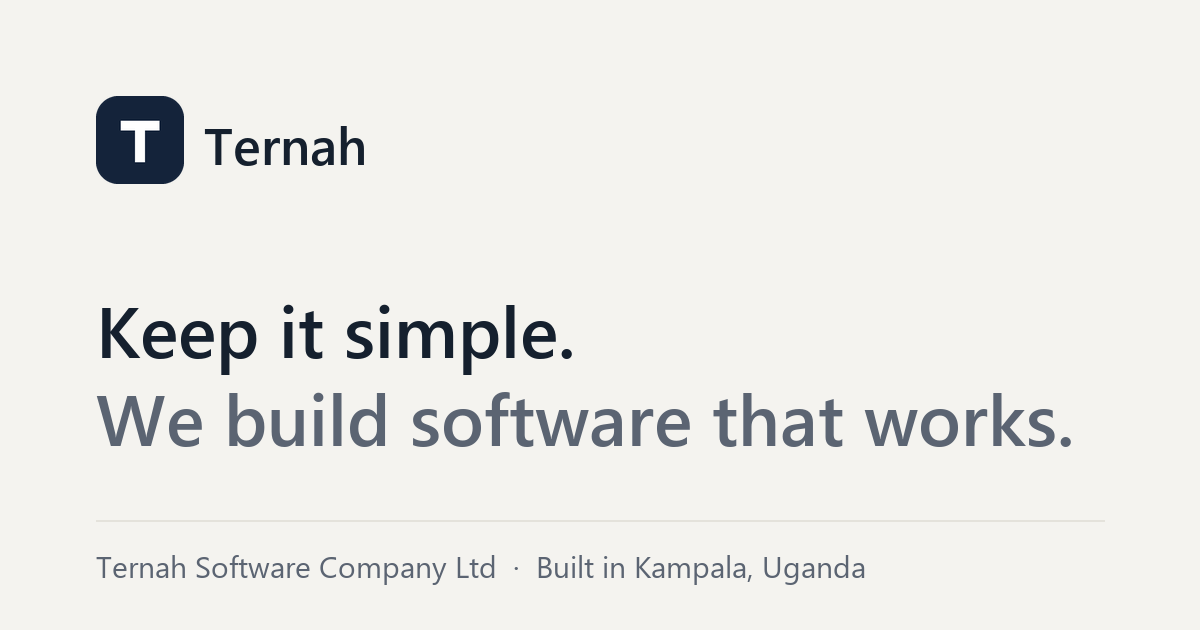
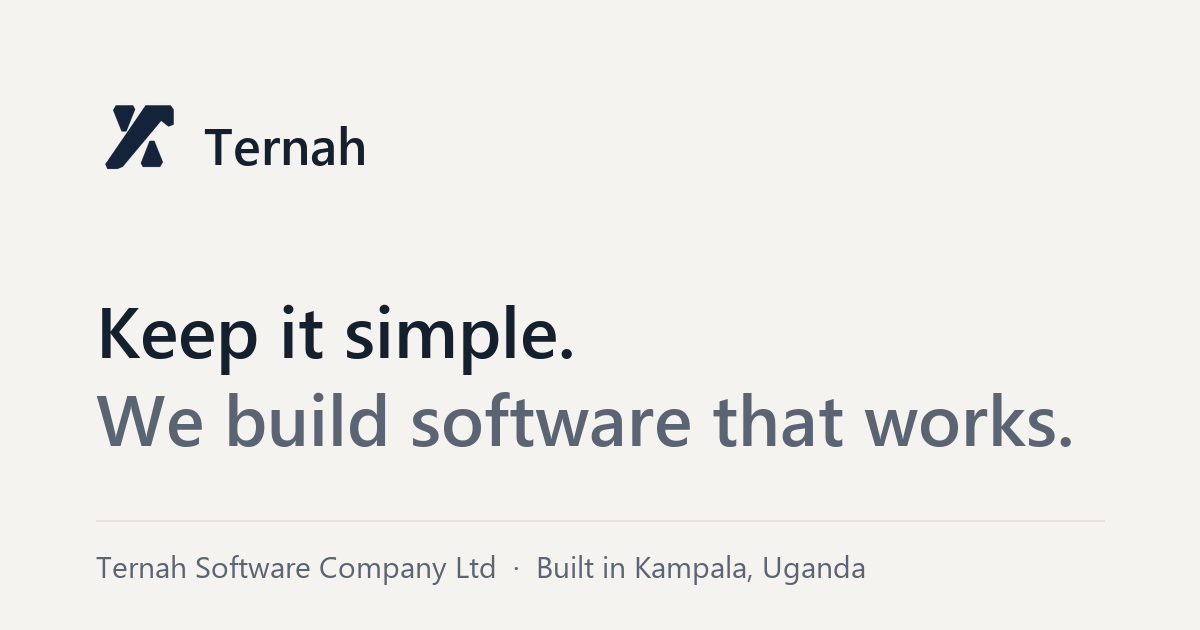
Redesign website on the shared Ternah theme
- Use ternah-ui tokens and self-hosted Hanken Grotesk; navy replaces #2f4cff
- New home hero (Kampala pill, team photo slot, product screens) and
  proof-first section order: products, services, process, industries, CTA
- Real product names; add Ternah for Factories and the SACCO platform;
  websites moved into services; Mykashop over https
- Remove initial-only testimonials and the unverifiable stats strip
- About leads with founders and story; contact form validates inline,
  marks required fields, has a honeypot and an optional endpoint
- Ternah mark in header, footer, favicon, apple-touch icon and PNG OG image
- sitemap.xml, robots.txt, canonical matches the live address

Changed region(s): [[0.0617, 0.1508, 0.1542, 0.3016]]

diff --git a/Ternah_Website/index.html b/Ternah_Website/index.html
@@ -33,7 +33,7 @@
 
 <header id="hdr">
   <div class="nav">
-    <a class="brand" href="index.html" aria-label="Ternah home"><span class="logo" aria-hidden="true">T</span><span class="wm">Ternah</span></a>
+    <a class="brand" href="index.html" aria-label="Ternah home"><svg class="logo" viewBox="0 0 100 94" aria-hidden="true"><g fill="currentColor"><path d="M27 14 L45 14 C47 14 48 16 47 18 L38 41 C37 43 34 43 33 41 L24 19 C23 16 24 14 27 14 Z"/><path d="M58 14 L84 14 C86 14 87 16 87 18 L87 34 C87 37 84 38 82 36 L74 30 L34 78 C33 79 31 80 29 80 L18 80 C15 80 14 77 16 75 L58 14 Z"/><path d="M73 78 L55 78 C53 78 52 76 53 74 L62 51 C63 49 66 49 67 51 L76 73 C77 76 76 78 73 78 Z"/></g></svg><span class="wm">Ternah</span></a>
     <nav class="navlinks" id="navlinks" aria-label="Main">
       <a href="solutions.html" data-nav="solutions">Solutions</a>
       <a href="products.html" data-nav="products">Products</a>
@@ -60,14 +60,14 @@
   <div class="stage">
     <div class="photo"><div class="photo-ph" role="img" aria-label="Team photo, Kampala office"><svg viewBox="0 0 24 24" fill="none" stroke-width="1.6" stroke-linecap="round" stroke-linejoin="round"><path d="M23 19a2 2 0 0 1-2 2H3a2 2 0 0 1-2-2V8a2 2 0 0 1 2-2h4l2-3h6l2 3h4a2 2 0 0 1 2 2z"/><circle cx="12" cy="13" r="4"/></svg><span>[Team photo, Kampala office]</span></div></div>
     <figure class="frame f-left"><div class="shot"><div role="img" aria-label="Ternah Health home screen" style="width:100%;height:100%"><div class="dash" aria-hidden="true">
-        <div class="sb"><div class="sb-brand"><span class="sb-logo">T</span><div><div class="sb-name">[Hospital name]</div><div class="sb-sub">Ternah Health</div></div></div><a class="on">Home</a><a class="">Reception</a><a class="">Doctor</a><a class="">Nursing</a><a class="">Laboratory</a><a class="">Sonography</a><a class="">Inventory</a><a class="">Finance</a><a class="">Hospital admin</a>
+        <div class="sb"><div class="sb-brand"><svg class="sb-logo" viewBox="0 0 100 94" aria-hidden="true"><g fill="currentColor"><path d="M27 14 L45 14 C47 14 48 16 47 18 L38 41 C37 43 34 43 33 41 L24 19 C23 16 24 14 27 14 Z"/><path d="M58 14 L84 14 C86 14 87 16 87 18 L87 34 C87 37 84 38 82 36 L74 30 L34 78 C33 79 31 80 29 80 L18 80 C15 80 14 77 16 75 L58 14 Z"/><path d="M73 78 L55 78 C53 78 52 76 53 74 L62 51 C63 49 66 49 67 51 L76 73 C77 76 76 78 73 78 Z"/></g></svg><div><div class="sb-name">[Hospital name]</div><div class="sb-sub">Ternah Health</div></div></div><a class="on">Home</a><a class="">Reception</a><a class="">Doctor</a><a class="">Nursing</a><a class="">Laboratory</a><a class="">Sonography</a><a class="">Inventory</a><a class="">Finance</a><a class="">Hospital admin</a>
           <div class="sb-user"><span class="sb-av">AD</span><div>[First name]<br><span class="sb-sub">Hospital admin</span></div></div></div>
         <div class="main"><div class="top"><div class="search">Search patient by name, phone or patient number</div><div class="date">Wednesday, 30 September</div></div>
           <div class="greet">Good morning, [First name]</div><div class="greet-sub">[Hospital name] · here is where every department stands right now.</div>
           <div class="tiles"><div class="t s2"><div class="tt"><span class="ti"></span>Reception</div><span class="n">6</span><span class="u">waiting at the desk</span></div><div class="t s2 raised"><div class="tt"><span class="ti"></span>Doctor</div><span class="n">7</span><span class="u">patients waiting</span><span class="n w">42 min</span><span class="u">longest wait</span><div class="pills"><span>Open queue</span><span>Today&#x27;s consultations</span></div></div><div class="t"><div class="tt"><span class="ti"></span>Laboratory</div><span class="n">3</span><span class="u">results pending</span></div><div class="t"><div class="tt"><span class="ti"></span>Nursing</div><span class="n">4</span><span class="u">awaiting triage</span></div><div class="t"><div class="tt"><span class="ti"></span>Sonography</div><span class="n">2</span><span class="u">scans queued</span></div><div class="t"><div class="tt"><span class="ti w"></span>Inventory</div><span class="n amber">4</span><span class="u">items below reorder level</span></div><div class="t s2"><div class="tt"><span class="ti"></span>Finance</div><span class="n">UGX 2.4M</span><span class="u">collected today</span></div><div class="t s2"><div class="tt"><span class="ti"></span>Hospital admin</div><div class="calm">Nothing needs your attention</div></div></div></div>
       </div></div></div><figcaption class="cap">Ternah Health</figcaption></figure>
     <figure class="frame f-right"><div class="shot"><div role="img" aria-label="Ternah for Factories home screen" style="width:100%;height:100%"><div class="dash" aria-hidden="true">
-        <div class="sb"><div class="sb-brand"><span class="sb-logo">T</span><div><div class="sb-name">[Factory name]</div><div class="sb-sub">Ternah for Factories</div></div></div><a class="on">Home</a><a class="">Production</a><a class="">Branch &amp; stock</a><a class="">Cashier</a><a class="">Finance</a><a class="">Staff</a>
+        <div class="sb"><div class="sb-brand"><svg class="sb-logo" viewBox="0 0 100 94" aria-hidden="true"><g fill="currentColor"><path d="M27 14 L45 14 C47 14 48 16 47 18 L38 41 C37 43 34 43 33 41 L24 19 C23 16 24 14 27 14 Z"/><path d="M58 14 L84 14 C86 14 87 16 87 18 L87 34 C87 37 84 38 82 36 L74 30 L34 78 C33 79 31 80 29 80 L18 80 C15 80 14 77 16 75 L58 14 Z"/><path d="M73 78 L55 78 C53 78 52 76 53 74 L62 51 C63 49 66 49 67 51 L76 73 C77 76 76 78 73 78 Z"/></g></svg><div><div class="sb-name">[Factory name]</div><div class="sb-sub">Ternah for Factories</div></div></div><a class="on">Home</a><a class="">Production</a><a class="">Branch &amp; stock</a><a class="">Cashier</a><a class="">Finance</a><a class="">Staff</a>
           <div class="sb-user"><span class="sb-av">JN</span><div>[First name]<br><span class="sb-sub">Manager</span></div></div></div>
         <div class="main"><div class="top"><div class="search">Search products, batches, customers or receipts</div><div class="date">Wednesday, 30 September</div></div>
           <div class="greet">Good afternoon, [First name]</div><div class="greet-sub">[Factory name] · here is where the factory stands right now.</div>
@@ -81,7 +81,7 @@
   <div class="grid g3">
     <article class="card prod reveal" id="ternah-health" data-d="1">
       <div class="frame"><div class="shot"><div role="img" aria-label="Ternah Health home screen" style="width:100%;height:100%"><div class="dash" aria-hidden="true">
-        <div class="sb"><div class="sb-brand"><span class="sb-logo">T</span><div><div class="sb-name">[Hospital name]</div><div class="sb-sub">Ternah Health</div></div></div><a class="on">Home</a><a class="">Reception</a><a class="">Doctor</a><a class="">Nursing</a><a class="">Laboratory</a><a class="">Sonography</a><a class="">Inventory</a><a class="">Finance</a><a class="">Hospital admin</a>
+        <div class="sb"><div class="sb-brand"><svg class="sb-logo" viewBox="0 0 100 94" aria-hidden="true"><g fill="currentColor"><path d="M27 14 L45 14 C47 14 48 16 47 18 L38 41 C37 43 34 43 33 41 L24 19 C23 16 24 14 27 14 Z"/><path d="M58 14 L84 14 C86 14 87 16 87 18 L87 34 C87 37 84 38 82 36 L74 30 L34 78 C33 79 31 80 29 80 L18 80 C15 80 14 77 16 75 L58 14 Z"/><path d="M73 78 L55 78 C53 78 52 76 53 74 L62 51 C63 49 66 49 67 51 L76 73 C77 76 76 78 73 78 Z"/></g></svg><div><div class="sb-name">[Hospital name]</div><div class="sb-sub">Ternah Health</div></div></div><a class="on">Home</a><a class="">Reception</a><a class="">Doctor</a><a class="">Nursing</a><a class="">Laboratory</a><a class="">Sonography</a><a class="">Inventory</a><a class="">Finance</a><a class="">Hospital admin</a>
           <div class="sb-user"><span class="sb-av">AD</span><div>[First name]<br><span class="sb-sub">Hospital admin</span></div></div></div>
         <div class="main"><div class="top"><div class="search">Search patient by name, phone or patient number</div><div class="date">Wednesday, 30 September</div></div>
           <div class="greet">Good morning, [First name]</div><div class="greet-sub">[Hospital name] · here is where every department stands right now.</div>
@@ -97,7 +97,7 @@
     </article>
     <article class="card prod reveal" id="ternah-factories" data-d="2">
       <div class="frame"><div class="shot"><div role="img" aria-label="Ternah for Factories home screen" style="width:100%;height:100%"><div class="dash" aria-hidden="true">
-        <div class="sb"><div class="sb-brand"><span class="sb-logo">T</span><div><div class="sb-name">[Factory name]</div><div class="sb-sub">Ternah for Factories</div></div></div><a class="on">Home</a><a class="">Production</a><a class="">Branch &amp; stock</a><a class="">Cashier</a><a class="">Finance</a><a class="">Staff</a>
+        <div class="sb"><div class="sb-brand"><svg class="sb-logo" viewBox="0 0 100 94" aria-hidden="true"><g fill="currentColor"><path d="M27 14 L45 14 C47 14 48 16 47 18 L38 41 C37 43 34 43 33 41 L24 19 C23 16 24 14 27 14 Z"/><path d="M58 14 L84 14 C86 14 87 16 87 18 L87 34 C87 37 84 38 82 36 L74 30 L34 78 C33 79 31 80 29 80 L18 80 C15 80 14 77 16 75 L58 14 Z"/><path d="M73 78 L55 78 C53 78 52 76 53 74 L62 51 C63 49 66 49 67 51 L76 73 C77 76 76 78 73 78 Z"/></g></svg><div><div class="sb-name">[Factory name]</div><div class="sb-sub">Ternah for Factories</div></div></div><a class="on">Home</a><a class="">Production</a><a class="">Branch &amp; stock</a><a class="">Cashier</a><a class="">Finance</a><a class="">Staff</a>
           <div class="sb-user"><span class="sb-av">JN</span><div>[First name]<br><span class="sb-sub">Manager</span></div></div></div>
         <div class="main"><div class="top"><div class="search">Search products, batches, customers or receipts</div><div class="date">Wednesday, 30 September</div></div>
           <div class="greet">Good afternoon, [First name]</div><div class="greet-sub">[Factory name] · here is where the factory stands right now.</div>
@@ -180,7 +180,7 @@
 <footer>
   <div class="foot">
     <div>
-      <a class="brand" href="index.html" aria-label="Ternah home"><span class="logo" aria-hidden="true">T</span><span class="wm">Ternah</span></a>
+      <a class="brand" href="index.html" aria-label="Ternah home"><svg class="logo" viewBox="0 0 100 94" aria-hidden="true"><g fill="currentColor"><path d="M27 14 L45 14 C47 14 48 16 47 18 L38 41 C37 43 34 43 33 41 L24 19 C23 16 24 14 27 14 Z"/><path d="M58 14 L84 14 C86 14 87 16 87 18 L87 34 C87 37 84 38 82 36 L74 30 L34 78 C33 79 31 80 29 80 L18 80 C15 80 14 77 16 75 L58 14 Z"/><path d="M73 78 L55 78 C53 78 52 76 53 74 L62 51 C63 49 66 49 67 51 L76 73 C77 76 76 78 73 78 Z"/></g></svg><span class="wm">Ternah</span></a>
       <p>Software built around the way your business already runs. Made in Kampala, Uganda.</p>
     </div>
     <div>

diff --git a/Ternah_Website/products.html b/Ternah_Website/products.html
@@ -33,7 +33,7 @@
 
 <header id="hdr">
   <div class="nav">
-    <a class="brand" href="index.html" aria-label="Ternah home"><span class="logo" aria-hidden="true">T</span><span class="wm">Ternah</span></a>
+    <a class="brand" href="index.html" aria-label="Ternah home"><svg class="logo" viewBox="0 0 100 94" aria-hidden="true"><g fill="currentColor"><path d="M27 14 L45 14 C47 14 48 16 47 18 L38 41 C37 43 34 43 33 41 L24 19 C23 16 24 14 27 14 Z"/><path d="M58 14 L84 14 C86 14 87 16 87 18 L87 34 C87 37 84 38 82 36 L74 30 L34 78 C33 79 31 80 29 80 L18 80 C15 80 14 77 16 75 L58 14 Z"/><path d="M73 78 L55 78 C53 78 52 76 53 74 L62 51 C63 49 66 49 67 51 L76 73 C77 76 76 78 73 78 Z"/></g></svg><span class="wm">Ternah</span></a>
     <nav class="navlinks" id="navlinks" aria-label="Main">
       <a href="solutions.html" data-nav="solutions">Solutions</a>
       <a href="products.html" data-nav="products" aria-current="page">Products</a>
@@ -58,7 +58,7 @@
   <div class="grid g3">
     <article class="card prod reveal" id="ternah-health" data-d="1">
       <div class="frame"><div class="shot"><div role="img" aria-label="Ternah Health home screen" style="width:100%;height:100%"><div class="dash" aria-hidden="true">
-        <div class="sb"><div class="sb-brand"><span class="sb-logo">T</span><div><div class="sb-name">[Hospital name]</div><div class="sb-sub">Ternah Health</div></div></div><a class="on">Home</a><a class="">Reception</a><a class="">Doctor</a><a class="">Nursing</a><a class="">Laboratory</a><a class="">Sonography</a><a class="">Inventory</a><a class="">Finance</a><a class="">Hospital admin</a>
+        <div class="sb"><div class="sb-brand"><svg class="sb-logo" viewBox="0 0 100 94" aria-hidden="true"><g fill="currentColor"><path d="M27 14 L45 14 C47 14 48 16 47 18 L38 41 C37 43 34 43 33 41 L24 19 C23 16 24 14 27 14 Z"/><path d="M58 14 L84 14 C86 14 87 16 87 18 L87 34 C87 37 84 38 82 36 L74 30 L34 78 C33 79 31 80 29 80 L18 80 C15 80 14 77 16 75 L58 14 Z"/><path d="M73 78 L55 78 C53 78 52 76 53 74 L62 51 C63 49 66 49 67 51 L76 73 C77 76 76 78 73 78 Z"/></g></svg><div><div class="sb-name">[Hospital name]</div><div class="sb-sub">Ternah Health</div></div></div><a class="on">Home</a><a class="">Reception</a><a class="">Doctor</a><a class="">Nursing</a><a class="">Laboratory</a><a class="">Sonography</a><a class="">Inventory</a><a class="">Finance</a><a class="">Hospital admin</a>
           <div class="sb-user"><span class="sb-av">AD</span><div>[First name]<br><span class="sb-sub">Hospital admin</span></div></div></div>
         <div class="main"><div class="top"><div class="search">Search patient by name, phone or patient number</div><div class="date">Wednesday, 30 September</div></div>
           <div class="greet">Good morning, [First name]</div><div class="greet-sub">[Hospital name] · here is where every department stands right now.</div>
@@ -74,7 +74,7 @@
     </article>
     <article class="card prod reveal" id="ternah-factories" data-d="2">
       <div class="frame"><div class="shot"><div role="img" aria-label="Ternah for Factories home screen" style="width:100%;height:100%"><div class="dash" aria-hidden="true">
-        <div class="sb"><div class="sb-brand"><span class="sb-logo">T</span><div><div class="sb-name">[Factory name]</div><div class="sb-sub">Ternah for Factories</div></div></div><a class="on">Home</a><a class="">Production</a><a class="">Branch &amp; stock</a><a class="">Cashier</a><a class="">Finance</a><a class="">Staff</a>
+        <div class="sb"><div class="sb-brand"><svg class="sb-logo" viewBox="0 0 100 94" aria-hidden="true"><g fill="currentColor"><path d="M27 14 L45 14 C47 14 48 16 47 18 L38 41 C37 43 34 43 33 41 L24 19 C23 16 24 14 27 14 Z"/><path d="M58 14 L84 14 C86 14 87 16 87 18 L87 34 C87 37 84 38 82 36 L74 30 L34 78 C33 79 31 80 29 80 L18 80 C15 80 14 77 16 75 L58 14 Z"/><path d="M73 78 L55 78 C53 78 52 76 53 74 L62 51 C63 49 66 49 67 51 L76 73 C77 76 76 78 73 78 Z"/></g></svg><div><div class="sb-name">[Factory name]</div><div class="sb-sub">Ternah for Factories</div></div></div><a class="on">Home</a><a class="">Production</a><a class="">Branch &amp; stock</a><a class="">Cashier</a><a class="">Finance</a><a class="">Staff</a>
           <div class="sb-user"><span class="sb-av">JN</span><div>[First name]<br><span class="sb-sub">Manager</span></div></div></div>
         <div class="main"><div class="top"><div class="search">Search products, batches, customers or receipts</div><div class="date">Wednesday, 30 September</div></div>
           <div class="greet">Good afternoon, [First name]</div><div class="greet-sub">[Factory name] · here is where the factory stands right now.</div>
@@ -164,7 +164,7 @@
 <footer>
   <div class="foot">
     <div>
-      <a class="brand" href="index.html" aria-label="Ternah home"><span class="logo" aria-hidden="true">T</span><span class="wm">Ternah</span></a>
+      <a class="brand" href="index.html" aria-label="Ternah home"><svg class="logo" viewBox="0 0 100 94" aria-hidden="true"><g fill="currentColor"><path d="M27 14 L45 14 C47 14 48 16 47 18 L38 41 C37 43 34 43 33 41 L24 19 C23 16 24 14 27 14 Z"/><path d="M58 14 L84 14 C86 14 87 16 87 18 L87 34 C87 37 84 38 82 36 L74 30 L34 78 C33 79 31 80 29 80 L18 80 C15 80 14 77 16 75 L58 14 Z"/><path d="M73 78 L55 78 C53 78 52 76 53 74 L62 51 C63 49 66 49 67 51 L76 73 C77 76 76 78 73 78 Z"/></g></svg><span class="wm">Ternah</span></a>
       <p>Software built around the way your business already runs. Made in Kampala, Uganda.</p>
     </div>
     <div>

diff --git a/Ternah_Website/assets/css/styles.css b/Ternah_Website/assets/css/styles.css
@@ -54,7 +54,7 @@ header{position:sticky;top:0;z-index:100;background:rgba(244,243,239,.85);backdr
 header.scrolled{border-color:var(--border)}
 .nav{max-width:calc(var(--maxw) + var(--gutter)*2);margin:0 auto;padding:0 var(--gutter);height:80px;display:flex;align-items:center;justify-content:space-between;gap:24px}
 .brand{display:flex;align-items:center;gap:12px;flex:none}
-.brand .logo{width:36px;height:36px;border-radius:10px;background:var(--nav);color:#fff;display:flex;align-items:center;justify-content:center;font-weight:600;font-size:18px}
+.brand .logo{width:38px;height:36px;color:var(--nav)}
 .brand .wm{font-weight:600;font-size:20px;letter-spacing:-.01em;color:var(--ink)}
 .navlinks{display:flex;align-items:center;gap:4px}
 .navlinks a{font-size:16px;font-weight:500;color:var(--ink);padding:8px 14px;border-radius:10px;transition:background .2s,color .2s}
@@ -107,7 +107,7 @@ header.scrolled{border-color:var(--border)}
 .dash{display:flex;width:100%;height:100%;font-family:var(--font);color:var(--ink);text-align:left;line-height:1.25}
 .dash .sb{width:17.5cqw;background:var(--nav);color:var(--nav-text);padding:1.6cqw 1.2cqw;display:flex;flex-direction:column;flex:none}
 .dash .sb-brand{display:flex;align-items:center;gap:.9cqw;margin-bottom:2cqw}
-.dash .sb-logo{width:2.8cqw;height:2.8cqw;border-radius:.6cqw;background:#fff;color:var(--nav);font-size:1.5cqw;font-weight:600;display:flex;align-items:center;justify-content:center}
+.dash .sb-logo{width:2.8cqw;height:2.6cqw;color:#fff;flex:none}
 .dash .sb-name{font-size:1.05cqw;color:#fff;font-weight:600}
 .dash .sb-sub{font-size:.75cqw;opacity:.7}
 .dash .sb a{display:block;font-size:.95cqw;padding:.75cqw 1cqw;border-radius:.6cqw}
@@ -302,7 +302,7 @@ footer{background:var(--nav);color:var(--nav-text);margin-top:0}
 main > :last-child:not(.cta-band){margin-bottom:var(--sec-gap)}
 .foot{max-width:calc(var(--maxw) + var(--gutter)*2);margin:0 auto;padding:72px var(--gutter) 48px;display:grid;grid-template-columns:1.4fr 1fr 1fr 1fr;gap:40px}
 .foot a.brand{display:flex;padding:0}
-.foot .brand .logo{background:#fff;color:var(--nav)}
+.foot .brand .logo{color:#fff}
 .foot .brand .wm{color:#fff}
 .foot p{font-size:15px;margin-top:20px;max-width:320px}
 .foot h4{font-size:14px;font-weight:600;letter-spacing:.06em;text-transform:uppercase;color:#fff;margin-bottom:14px}

diff --git a/Ternah_Website/solutions.html b/Ternah_Website/solutions.html
@@ -33,7 +33,7 @@
 
 <header id="hdr">
   <div class="nav">
-    <a class="brand" href="index.html" aria-label="Ternah home"><span class="logo" aria-hidden="true">T</span><span class="wm">Ternah</span></a>
+    <a class="brand" href="index.html" aria-label="Ternah home"><svg class="logo" viewBox="0 0 100 94" aria-hidden="true"><g fill="currentColor"><path d="M27 14 L45 14 C47 14 48 16 47 18 L38 41 C37 43 34 43 33 41 L24 19 C23 16 24 14 27 14 Z"/><path d="M58 14 L84 14 C86 14 87 16 87 18 L87 34 C87 37 84 38 82 36 L74 30 L34 78 C33 79 31 80 29 80 L18 80 C15 80 14 77 16 75 L58 14 Z"/><path d="M73 78 L55 78 C53 78 52 76 53 74 L62 51 C63 49 66 49 67 51 L76 73 C77 76 76 78 73 78 Z"/></g></svg><span class="wm">Ternah</span></a>
     <nav class="navlinks" id="navlinks" aria-label="Main">
       <a href="solutions.html" data-nav="solutions" aria-current="page">Solutions</a>
       <a href="products.html" data-nav="products">Products</a>
@@ -104,7 +104,7 @@
 <footer>
   <div class="foot">
     <div>
-      <a class="brand" href="index.html" aria-label="Ternah home"><span class="logo" aria-hidden="true">T</span><span class="wm">Ternah</span></a>
+      <a class="brand" href="index.html" aria-label="Ternah home"><svg class="logo" viewBox="0 0 100 94" aria-hidden="true"><g fill="currentColor"><path d="M27 14 L45 14 C47 14 48 16 47 18 L38 41 C37 43 34 43 33 41 L24 19 C23 16 24 14 27 14 Z"/><path d="M58 14 L84 14 C86 14 87 16 87 18 L87 34 C87 37 84 38 82 36 L74 30 L34 78 C33 79 31 80 29 80 L18 80 C15 80 14 77 16 75 L58 14 Z"/><path d="M73 78 L55 78 C53 78 52 76 53 74 L62 51 C63 49 66 49 67 51 L76 73 C77 76 76 78 73 78 Z"/></g></svg><span class="wm">Ternah</span></a>
       <p>Software built around the way your business already runs. Made in Kampala, Uganda.</p>
     </div>
     <div>

diff --git a/Ternah_Website/about.html b/Ternah_Website/about.html
@@ -33,7 +33,7 @@
 
 <header id="hdr">
   <div class="nav">
-    <a class="brand" href="index.html" aria-label="Ternah home"><span class="logo" aria-hidden="true">T</span><span class="wm">Ternah</span></a>
+    <a class="brand" href="index.html" aria-label="Ternah home"><svg class="logo" viewBox="0 0 100 94" aria-hidden="true"><g fill="currentColor"><path d="M27 14 L45 14 C47 14 48 16 47 18 L38 41 C37 43 34 43 33 41 L24 19 C23 16 24 14 27 14 Z"/><path d="M58 14 L84 14 C86 14 87 16 87 18 L87 34 C87 37 84 38 82 36 L74 30 L34 78 C33 79 31 80 29 80 L18 80 C15 80 14 77 16 75 L58 14 Z"/><path d="M73 78 L55 78 C53 78 52 76 53 74 L62 51 C63 49 66 49 67 51 L76 73 C77 76 76 78 73 78 Z"/></g></svg><span class="wm">Ternah</span></a>
     <nav class="navlinks" id="navlinks" aria-label="Main">
       <a href="solutions.html" data-nav="solutions">Solutions</a>
       <a href="products.html" data-nav="products">Products</a>
@@ -102,7 +102,7 @@
 <footer>
   <div class="foot">
     <div>
-      <a class="brand" href="index.html" aria-label="Ternah home"><span class="logo" aria-hidden="true">T</span><span class="wm">Ternah</span></a>
+      <a class="brand" href="index.html" aria-label="Ternah home"><svg class="logo" viewBox="0 0 100 94" aria-hidden="true"><g fill="currentColor"><path d="M27 14 L45 14 C47 14 48 16 47 18 L38 41 C37 43 34 43 33 41 L24 19 C23 16 24 14 27 14 Z"/><path d="M58 14 L84 14 C86 14 87 16 87 18 L87 34 C87 37 84 38 82 36 L74 30 L34 78 C33 79 31 80 29 80 L18 80 C15 80 14 77 16 75 L58 14 Z"/><path d="M73 78 L55 78 C53 78 52 76 53 74 L62 51 C63 49 66 49 67 51 L76 73 C77 76 76 78 73 78 Z"/></g></svg><span class="wm">Ternah</span></a>
       <p>Software built around the way your business already runs. Made in Kampala, Uganda.</p>
     </div>
     <div>

diff --git a/Ternah_Website/industries.html b/Ternah_Website/industries.html
@@ -33,7 +33,7 @@
 
 <header id="hdr">
   <div class="nav">
-    <a class="brand" href="index.html" aria-label="Ternah home"><span class="logo" aria-hidden="true">T</span><span class="wm">Ternah</span></a>
+    <a class="brand" href="index.html" aria-label="Ternah home"><svg class="logo" viewBox="0 0 100 94" aria-hidden="true"><g fill="currentColor"><path d="M27 14 L45 14 C47 14 48 16 47 18 L38 41 C37 43 34 43 33 41 L24 19 C23 16 24 14 27 14 Z"/><path d="M58 14 L84 14 C86 14 87 16 87 18 L87 34 C87 37 84 38 82 36 L74 30 L34 78 C33 79 31 80 29 80 L18 80 C15 80 14 77 16 75 L58 14 Z"/><path d="M73 78 L55 78 C53 78 52 76 53 74 L62 51 C63 49 66 49 67 51 L76 73 C77 76 76 78 73 78 Z"/></g></svg><span class="wm">Ternah</span></a>
     <nav class="navlinks" id="navlinks" aria-label="Main">
       <a href="solutions.html" data-nav="solutions">Solutions</a>
       <a href="products.html" data-nav="products">Products</a>
@@ -105,7 +105,7 @@
 <footer>
   <div class="foot">
     <div>
-      <a class="brand" href="index.html" aria-label="Ternah home"><span class="logo" aria-hidden="true">T</span><span class="wm">Ternah</span></a>
+      <a class="brand" href="index.html" aria-label="Ternah home"><svg class="logo" viewBox="0 0 100 94" aria-hidden="true"><g fill="currentColor"><path d="M27 14 L45 14 C47 14 48 16 47 18 L38 41 C37 43 34 43 33 41 L24 19 C23 16 24 14 27 14 Z"/><path d="M58 14 L84 14 C86 14 87 16 87 18 L87 34 C87 37 84 38 82 36 L74 30 L34 78 C33 79 31 80 29 80 L18 80 C15 80 14 77 16 75 L58 14 Z"/><path d="M73 78 L55 78 C53 78 52 76 53 74 L62 51 C63 49 66 49 67 51 L76 73 C77 76 76 78 73 78 Z"/></g></svg><span class="wm">Ternah</span></a>
       <p>Software built around the way your business already runs. Made in Kampala, Uganda.</p>
     </div>
     <div>

diff --git a/Ternah_Website/insights.html b/Ternah_Website/insights.html
@@ -33,7 +33,7 @@
 
 <header id="hdr">
   <div class="nav">
-    <a class="brand" href="index.html" aria-label="Ternah home"><span class="logo" aria-hidden="true">T</span><span class="wm">Ternah</span></a>
+    <a class="brand" href="index.html" aria-label="Ternah home"><svg class="logo" viewBox="0 0 100 94" aria-hidden="true"><g fill="currentColor"><path d="M27 14 L45 14 C47 14 48 16 47 18 L38 41 C37 43 34 43 33 41 L24 19 C23 16 24 14 27 14 Z"/><path d="M58 14 L84 14 C86 14 87 16 87 18 L87 34 C87 37 84 38 82 36 L74 30 L34 78 C33 79 31 80 29 80 L18 80 C15 80 14 77 16 75 L58 14 Z"/><path d="M73 78 L55 78 C53 78 52 76 53 74 L62 51 C63 49 66 49 67 51 L76 73 C77 76 76 78 73 78 Z"/></g></svg><span class="wm">Ternah</span></a>
     <nav class="navlinks" id="navlinks" aria-label="Main">
       <a href="solutions.html" data-nav="solutions">Solutions</a>
       <a href="products.html" data-nav="products">Products</a>
@@ -679,7 +679,7 @@
 <footer>
   <div class="foot">
     <div>
-      <a class="brand" href="index.html" aria-label="Ternah home"><span class="logo" aria-hidden="true">T</span><span class="wm">Ternah</span></a>
+      <a class="brand" href="index.html" aria-label="Ternah home"><svg class="logo" viewBox="0 0 100 94" aria-hidden="true"><g fill="currentColor"><path d="M27 14 L45 14 C47 14 48 16 47 18 L38 41 C37 43 34 43 33 41 L24 19 C23 16 24 14 27 14 Z"/><path d="M58 14 L84 14 C86 14 87 16 87 18 L87 34 C87 37 84 38 82 36 L74 30 L34 78 C33 79 31 80 29 80 L18 80 C15 80 14 77 16 75 L58 14 Z"/><path d="M73 78 L55 78 C53 78 52 76 53 74 L62 51 C63 49 66 49 67 51 L76 73 C77 76 76 78 73 78 Z"/></g></svg><span class="wm">Ternah</span></a>
       <p>Software built around the way your business already runs. Made in Kampala, Uganda.</p>
     </div>
     <div>

diff --git a/Ternah_Website/contact.html b/Ternah_Website/contact.html
@@ -33,7 +33,7 @@
 
 <header id="hdr">
   <div class="nav">
-    <a class="brand" href="index.html" aria-label="Ternah home"><span class="logo" aria-hidden="true">T</span><span class="wm">Ternah</span></a>
+    <a class="brand" href="index.html" aria-label="Ternah home"><svg class="logo" viewBox="0 0 100 94" aria-hidden="true"><g fill="currentColor"><path d="M27 14 L45 14 C47 14 48 16 47 18 L38 41 C37 43 34 43 33 41 L24 19 C23 16 24 14 27 14 Z"/><path d="M58 14 L84 14 C86 14 87 16 87 18 L87 34 C87 37 84 38 82 36 L74 30 L34 78 C33 79 31 80 29 80 L18 80 C15 80 14 77 16 75 L58 14 Z"/><path d="M73 78 L55 78 C53 78 52 76 53 74 L62 51 C63 49 66 49 67 51 L76 73 C77 76 76 78 73 78 Z"/></g></svg><span class="wm">Ternah</span></a>
     <nav class="navlinks" id="navlinks" aria-label="Main">
       <a href="solutions.html" data-nav="solutions">Solutions</a>
       <a href="products.html" data-nav="products">Products</a>
@@ -81,7 +81,7 @@
 <footer>
   <div class="foot">
     <div>
-      <a class="brand" href="index.html" aria-label="Ternah home"><span class="logo" aria-hidden="true">T</span><span class="wm">Ternah</span></a>
+      <a class="brand" href="index.html" aria-label="Ternah home"><svg class="logo" viewBox="0 0 100 94" aria-hidden="true"><g fill="currentColor"><path d="M27 14 L45 14 C47 14 48 16 47 18 L38 41 C37 43 34 43 33 41 L24 19 C23 16 24 14 27 14 Z"/><path d="M58 14 L84 14 C86 14 87 16 87 18 L87 34 C87 37 84 38 82 36 L74 30 L34 78 C33 79 31 80 29 80 L18 80 C15 80 14 77 16 75 L58 14 Z"/><path d="M73 78 L55 78 C53 78 52 76 53 74 L62 51 C63 49 66 49 67 51 L76 73 C77 76 76 78 73 78 Z"/></g></svg><span class="wm">Ternah</span></a>
       <p>Software built around the way your business already runs. Made in Kampala, Uganda.</p>
     </div>
     <div>

diff --git a/Ternah_Website/tools/make_images.py b/Ternah_Website/tools/make_images.py
@@ -16,31 +16,45 @@ def font(size, bold=True):
                 return ImageFont.truetype(p, size)
     return ImageFont.load_default()
 
-def t_mark(size, radius_ratio=0.25, pad=0):
-    """Navy rounded tile with a white T, drawn geometrically to match favicon.svg."""
-    s = 4 * size  # supersample
-    img = Image.new('RGBA', (s, s), (0, 0, 0, 0))
-    d = ImageDraw.Draw(img)
-    p = pad * 4
-    d.rounded_rectangle([p, p, s - p - 1, s - p - 1], radius=int((s - 2 * p) * radius_ratio), fill=NAV)
-    u = (s - 2 * p) / 64
-    d.rectangle([p + 18 * u, p + 18 * u, p + 46 * u, p + 25 * u], fill='white')
-    d.rectangle([p + 28.5 * u, p + 18 * u, p + 35.5 * u, p + 48 * u], fill='white')
-    return img.resize((size, size), Image.LANCZOS)
+# Ternah mark polygons (from the SVG paths, viewBox 0 0 100 94; curves approximated by their corners).
+MARK = [
+    [(27,14),(45,14),(47,18),(38,41),(33,41),(24,19)],
+    [(58,14),(84,14),(87,18),(87,34),(82,36),(74,30),(34,78),(29,80),(18,80),(16,75)],
+    [(73,78),(55,78),(53,74),(62,51),(67,51),(76,73)],
+]
+
+def draw_mark(img, x, y, size, color):
+    """Draw the mark into img with its 100-unit box at (x, y), size px wide."""
+    s = 4
+    layer = Image.new('L', (size * s, size * s), 0)
+    d = ImageDraw.Draw(layer)
+    u = size * s / 100
+    for poly in MARK:
+        d.polygon([(px * u, py * u) for px, py in poly], fill=255)
+    layer = layer.resize((size, size), Image.LANCZOS)
+    img.paste(Image.new('RGBA', (size, size), color), (x, y), layer)
+
+def tile(size, bg, fg, radius_ratio=0.22):
+    img = Image.new('RGBA', (size * 4, size * 4), (0, 0, 0, 0))
+    ImageDraw.Draw(img).rounded_rectangle([0, 0, size * 4 - 1, size * 4 - 1], radius=int(size * 4 * radius_ratio), fill=bg)
+    img = img.resize((size, size), Image.LANCZOS)
+    m = int(size * .82)
+    draw_mark(img, (size - m) // 2, (size - m) // 2 + size // 40, m, fg)
+    return img
 
 assets = ROOT / 'assets'
-t_mark(32).save(assets / 'favicon-32.png')
-apple = Image.new('RGB', (180, 180), NAV)   # iOS adds its own rounding; fill edge to edge
-apple.paste(t_mark(180, radius_ratio=0), (0, 0), t_mark(180, radius_ratio=0))
-apple.save(assets / 'apple-touch-icon.png')
+tile(32, NAV, 'white').save(assets / 'favicon-32.png')
+apple = Image.new('RGBA', (180, 180), BG)   # iOS adds its own rounding; fill edge to edge
+draw_mark(apple, 30, 28, 120, NAV)
+apple.convert('RGB').save(assets / 'apple-touch-icon.png')
 
-og = Image.new('RGB', (1200, 630), BG)
+og = Image.new('RGBA', (1200, 630), BG)
 d = ImageDraw.Draw(og)
-og.paste(t_mark(88), (96, 96), t_mark(88))
+draw_mark(og, 90, 92, 96, NAV)
 d.text((204, 108), 'Ternah', font=font(52), fill=INK)
 d.text((96, 280), 'Keep it simple.', font=font(72), fill=INK)
 d.text((96, 368), 'We build software that works.', font=font(72), fill=MUTED)
 d.line([(96, 520), (1104, 520)], fill=BORDER, width=2)
 d.text((96, 545), 'Ternah Software Company Ltd  ·  Built in Kampala, Uganda', font=font(30, bold=False), fill=MUTED)
-og.save(assets / 'og-image.png', optimize=True)
+og.convert('RGB').save(assets / 'og-image.png', optimize=True)
 print('wrote favicon-32.png, apple-touch-icon.png, og-image.png')

diff --git a/Ternah_Website/build_pages.py b/Ternah_Website/build_pages.py
@@ -26,6 +26,15 @@ ANALYTICS_DOMAIN = ''  # e.g. 'ternah.co.ug' to load Plausible; empty = no analy
 def exists(rel):
     return os.path.exists(os.path.join(OUT, rel))
 
+
+# Ternah mark (left triangle, rising arrow, lower triangle). viewBox 0 0 100 94.
+MARK_PATHS = ('<path d="M27 14 L45 14 C47 14 48 16 47 18 L38 41 C37 43 34 43 33 41 L24 19 C23 16 24 14 27 14 Z"/>'
+              '<path d="M58 14 L84 14 C86 14 87 16 87 18 L87 34 C87 37 84 38 82 36 L74 30 L34 78 C33 79 31 80 29 80 L18 80 C15 80 14 77 16 75 L58 14 Z"/>'
+              '<path d="M73 78 L55 78 C53 78 52 76 53 74 L62 51 C63 49 66 49 67 51 L76 73 C77 76 76 78 73 78 Z"/>')
+
+def MK(cls='mk'):
+    return f'<svg class="{cls}" viewBox="0 0 100 94" aria-hidden="true"><g fill="currentColor">{MARK_PATHS}</g></svg>'
+
 # ================= ICONS =================
 ARROW = ('<svg class="arrow" viewBox="0 0 24 24" fill="none" stroke-width="2" stroke-linecap="round" '
          'stroke-linejoin="round"><line x1="5" y1="12" x2="19" y2="12"/><polyline points="12 5 19 12 12 19"/></svg>')
@@ -66,7 +75,7 @@ NAV_ITEMS = [('solutions','Solutions'),('products','Products'),('industries','In
              ('about','About'),('insights','Insights'),('contact','Contact')]
 
 def brand():
-    return '<a class="brand" href="index.html" aria-label="Ternah home"><span class="logo" aria-hidden="true">T</span><span class="wm">Ternah</span></a>'
+    return f'<a class="brand" href="index.html" aria-label="Ternah home">{MK("logo")}<span class="wm">Ternah</span></a>'
 
 def header_html(slug):
     links = "\n      ".join(
@@ -226,7 +235,7 @@ def dash_html(d):
         tiles.append(f'<div class="{cls}"><div class="tt"><span class="ti{" w" if warn else ""}"></span>{escape(t)}</div>{val}{pl}</div>')
     ini,name,role = d['user']
     return f'''<div class="dash" aria-hidden="true">
-        <div class="sb"><div class="sb-brand"><span class="sb-logo">T</span><div><div class="sb-name">{escape(d["org"])}</div><div class="sb-sub">{escape(d["org_sub"])}</div></div></div>{nav}
+        <div class="sb"><div class="sb-brand">{MK("sb-logo")}<div><div class="sb-name">{escape(d["org"])}</div><div class="sb-sub">{escape(d["org_sub"])}</div></div></div>{nav}
           <div class="sb-user"><span class="sb-av">{ini}</span><div>{escape(name)}<br><span class="sb-sub">{escape(role)}</span></div></div></div>
         <div class="main"><div class="top"><div class="search">{escape(d["search"])}</div><div class="date">Wednesday, 30 September</div></div>
           <div class="greet">{escape(d["greet"])}</div><div class="greet-sub">{escape(d["sub"])}</div>
